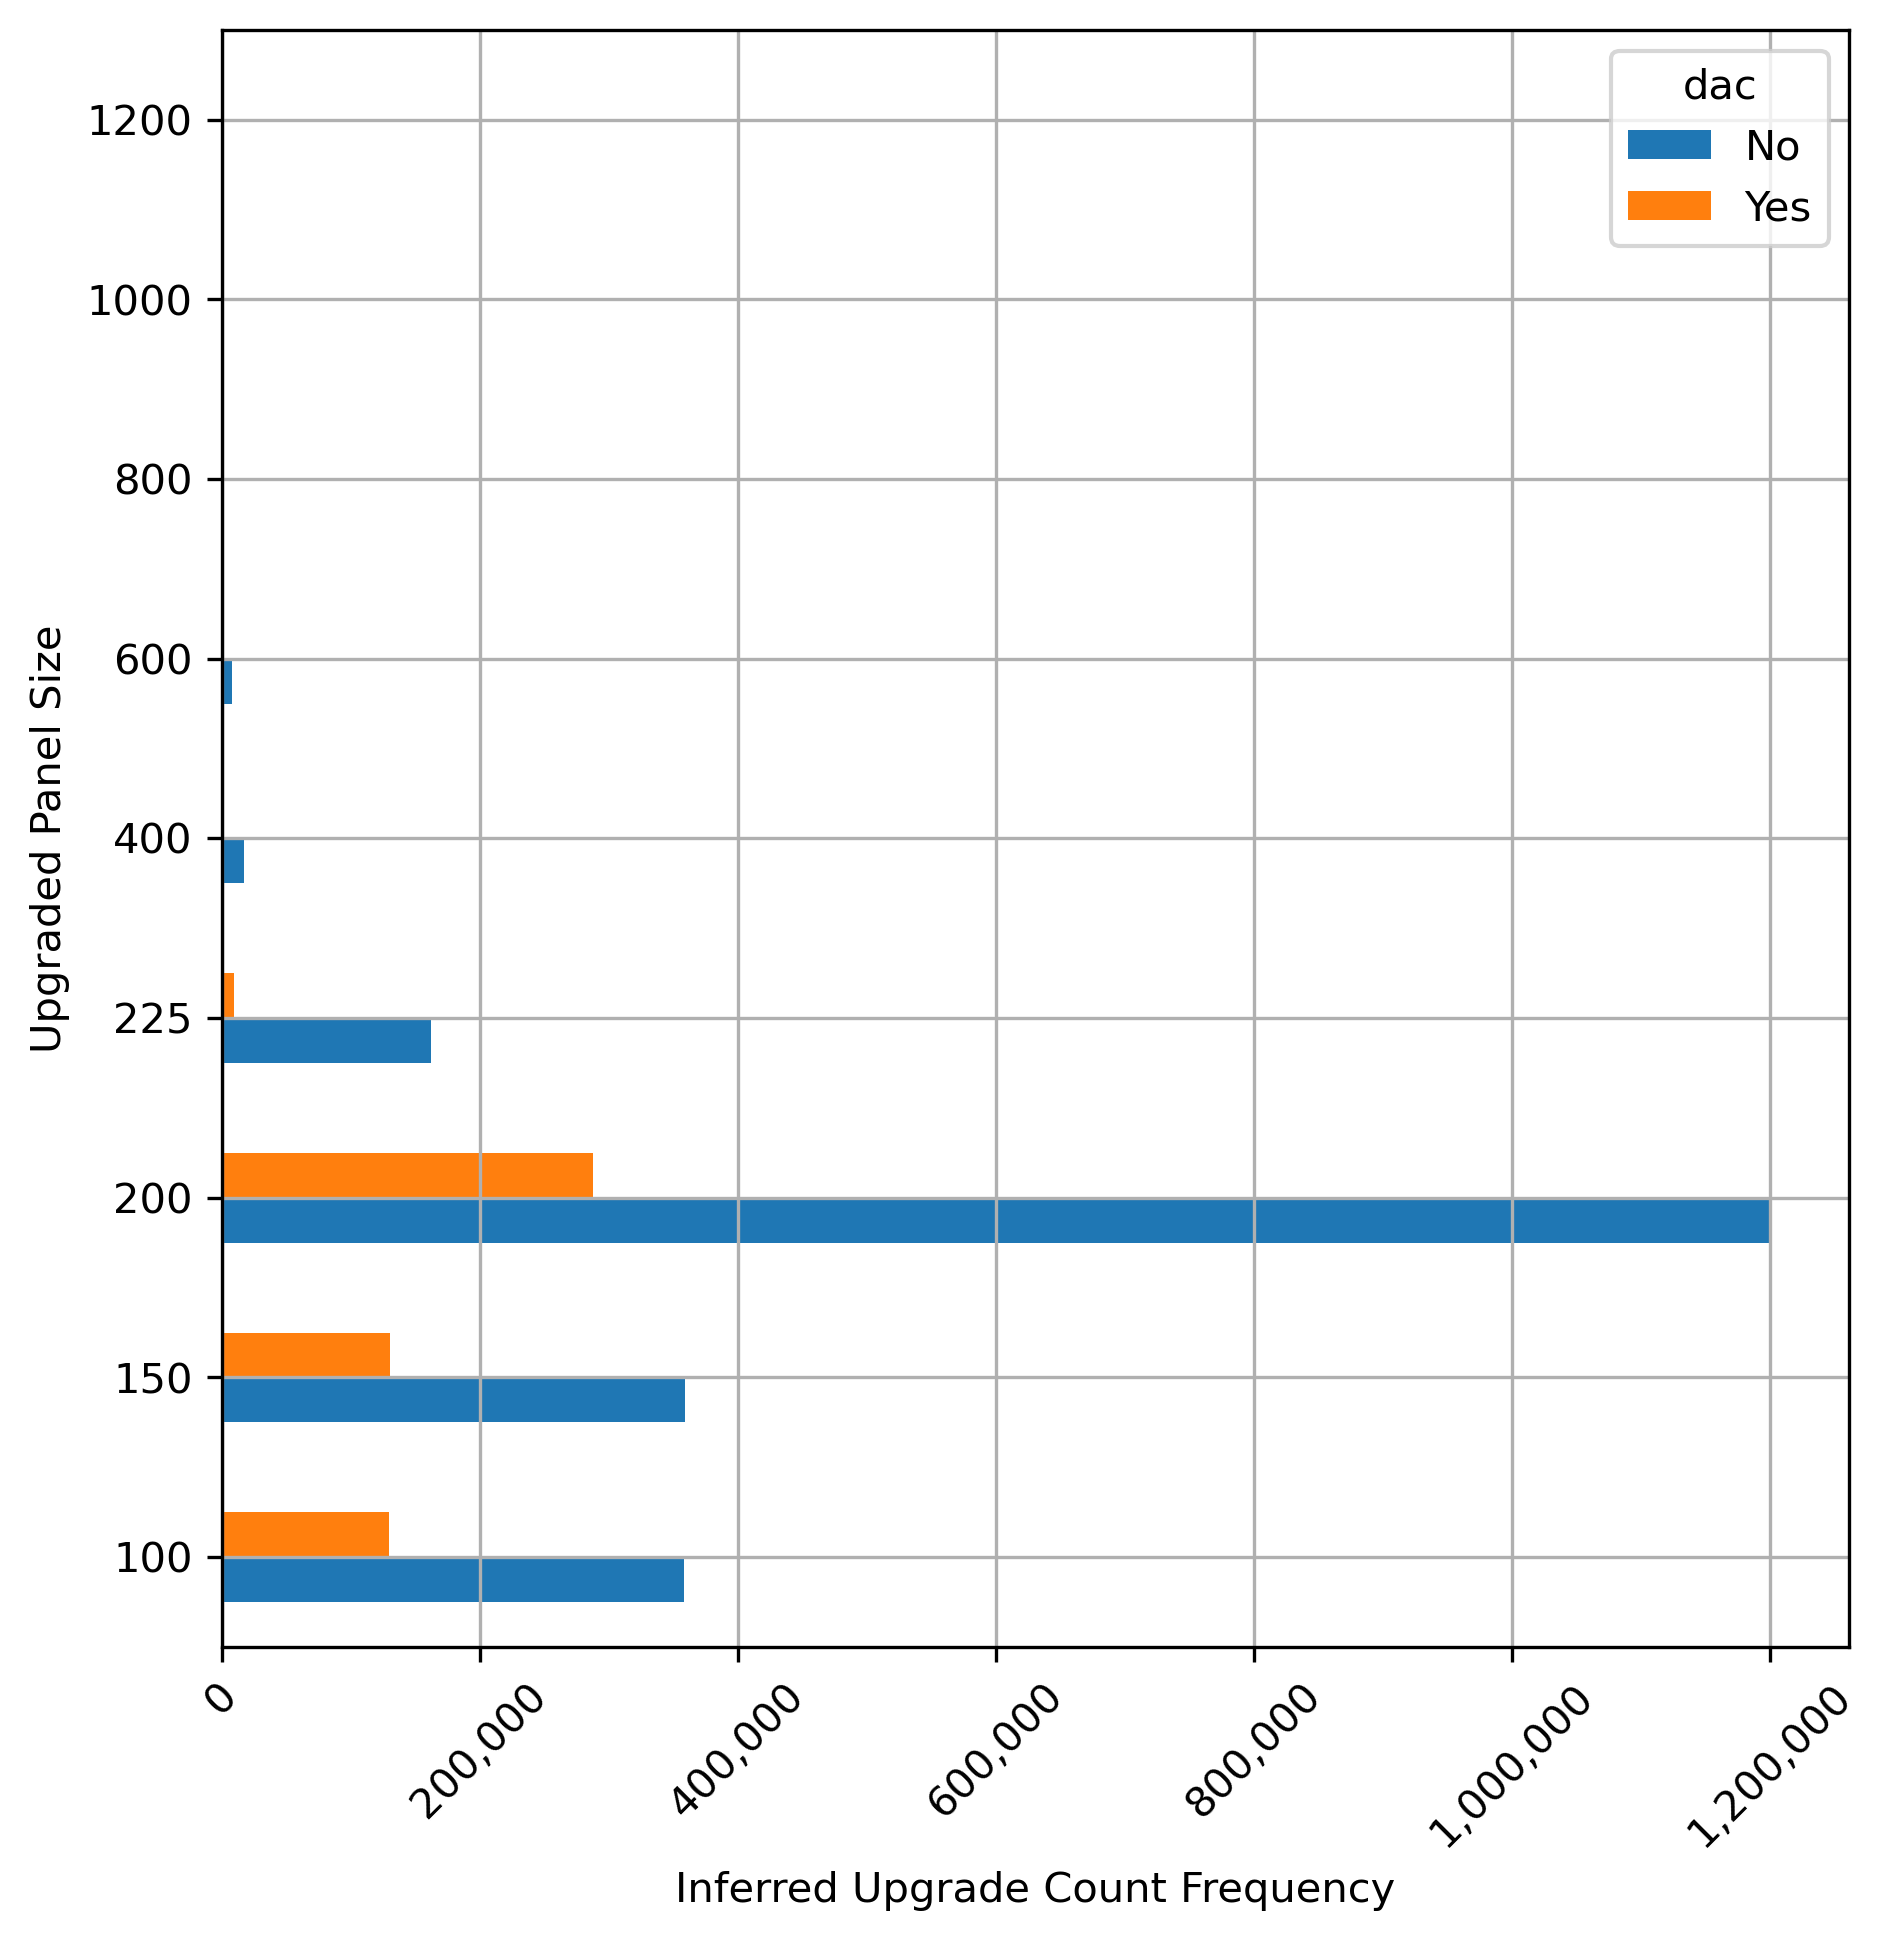
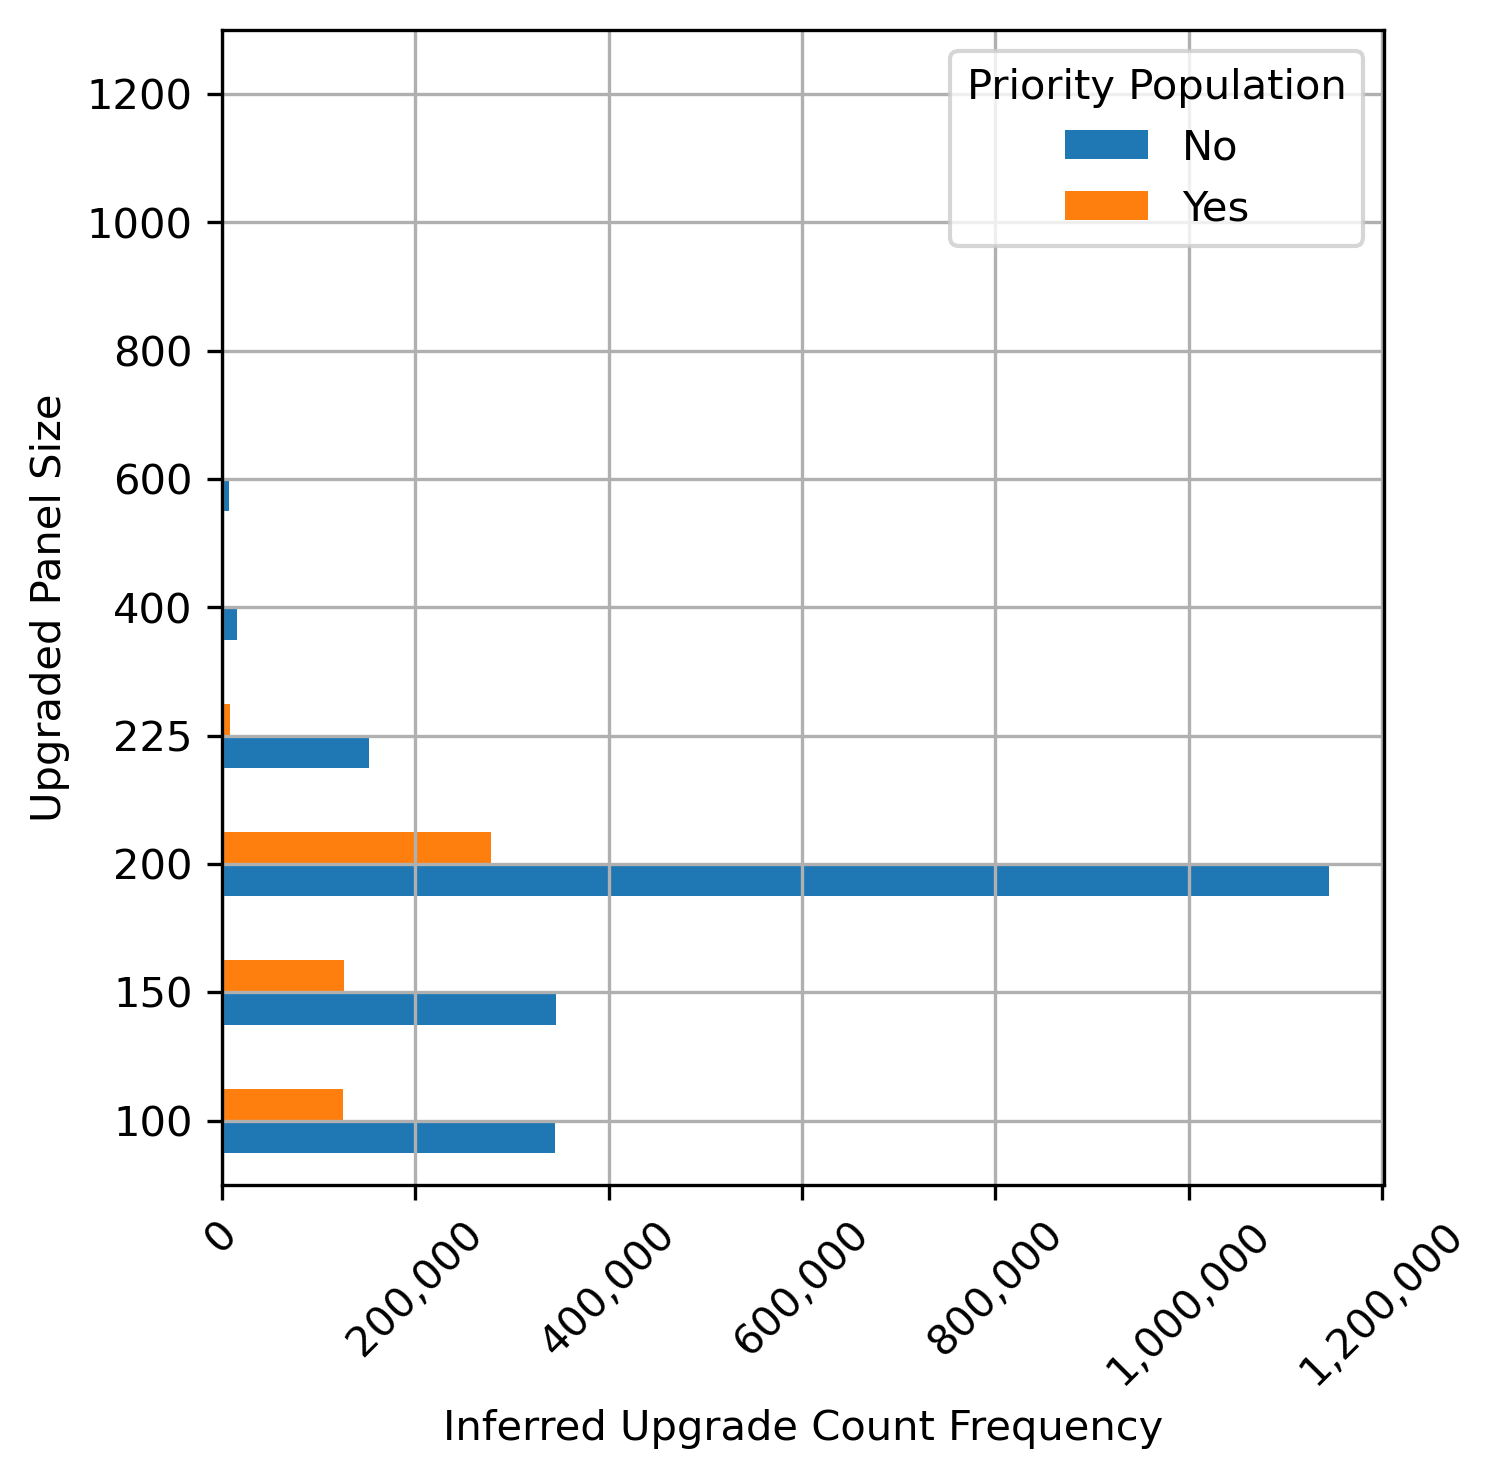
Refine model analysis figures for publication

Changed region(s): [[0.0, 0.0, 0.9807, 0.9953], [0.2145, 0.902, 0.2452, 0.9331], [0.0306, 0.2799, 0.0613, 0.311]]

diff --git a/analyses/model_data/model_data_analysis.py b/analyses/model_data/model_data_analysis.py
@@ -91,7 +91,7 @@ def AsBuiltPanelRatingsHist(mp, sector, figure_dir):
         ax = ax[0],
         bins = bins,
         legend = True,
-        label =
+        label = 'Priority Population',
         cbar = True,
         cbar_kws = {'label':'Number of Properties', 'orientation':'horizontal'},
         vmin=0, vmax=50000)
@@ -102,7 +102,7 @@ def AsBuiltPanelRatingsHist(mp, sector, figure_dir):
         ax = ax[1],
         bins = bins,
         legend = True,
-        label = 'Non-DAC',
+        label = 'Non-Priority Population',
         cbar = True,
         cbar_kws = {'label':'Number of Properties', 'orientation':'horizontal'},
         vmin=0, vmax=50000)
@@ -118,8 +118,8 @@ def AsBuiltPanelRatingsHist(mp, sector, figure_dir):
     ax[0].set_xlabel('Vintage \n[Year]')
     ax[1].set_xlabel('Vintage \n[Year]')
 
-    ax[0].set_title('DAC')
-    ax[1].set_title('Non-DAC')
+    ax[0].set_title('Priority Population')
+    ax[1].set_title('Non-Priority Population')
 
     ax[0].set_ylim(ylim)
     ax[1].set_ylim(ylim)
@@ -169,6 +169,7 @@ def AsBuiltPanelRatingsBar(mp, sector, figure_dir):
     ax.set_ylabel(ylabel)
     ax.set_xlabel(xlabel)
     plt.xticks(rotation = 45)
+    ax.legend(title = 'Priority Population')
 
     ax.xaxis.set_major_formatter(StrMethodFormatter('{x:,.0f}'))
 
@@ -196,6 +197,7 @@ def PermitCountsBar(buildings_ces, sector, figure_dir):
         y = 'sampled',
         x = 'dac',
         order = ['No','Yes'],
+        label = ['No','Yes'],
         ax = ax)
 
     if sector == 'single_family':
@@ -205,7 +207,7 @@ def PermitCountsBar(buildings_ces, sector, figure_dir):
 
     ax.grid(True)
     ax.set_ylabel(ylabel)
-    ax.set_xlabel('DAC Status')
+    ax.set_xlabel('Priority Population')
     ax.yaxis.set_major_formatter(StrMethodFormatter('{x:,.0f}'))
 
     fig.tight_layout()
@@ -250,7 +252,7 @@ def ExistingPanelRatingsHist(mp, sector, figure_dir):
         ax = ax[0],
         bins = bins,
         legend = True,
-        label = 'DAC',
+        label = 'Yes',
         cbar = True,
         cbar_kws = {'label': 'Number of Properties', 'orientation':'horizontal'},
         vmin=0, vmax=50000)
@@ -261,7 +263,7 @@ def ExistingPanelRatingsHist(mp, sector, figure_dir):
         ax = ax[1],
         bins = bins,
         legend = True,
-        label = 'Non-DAC',
+        label = 'No',
         cbar = True,
         cbar_kws = {'label':'Number of Properties', 'orientation':'horizontal'},
         vmin=0, vmax=50000)
@@ -277,8 +279,8 @@ def ExistingPanelRatingsHist(mp, sector, figure_dir):
     ax[0].set_xlabel('Vintage \n[Year]')
     ax[1].set_xlabel('Vintage \n[Year]')
 
-    ax[0].set_title('DAC')
-    ax[1].set_title('Non-DAC')
+    ax[0].set_title('Priority Population')
+    ax[1].set_title('Non-Priority Population')
 
     ax[0].set_ylim(ylim)
     ax[1].set_ylim(ylim)
@@ -315,7 +317,7 @@ def JointDistributionPlot(mp, sector, figure_dir):
             marker = '.',
             linewidth = 0
             )
-        plt.legend(loc='upper left')
+        plt.legend(title = 'Priority Population', loc='upper left')
         plt.xlim([1830, 2025])
         plt.ylim([2.0, 5.0])
         plt.yticks([2,3,4,5])
@@ -336,7 +338,7 @@ def JointDistributionPlot(mp, sector, figure_dir):
             marker = '.',
             linewidth = 0
             )
-        plt.legend(loc='upper left')
+        plt.legend(title = 'Priority Population', loc='upper left')
         plt.xlim([1860, 2025])
         plt.ylim([2.0, 6.0])
         plt.yticks([2,3,4,5,6])
@@ -414,6 +416,7 @@ def ExistingPanelRatingsBar(mp, sector, figure_dir):
     ax.set_ylabel(ylabel)
     ax.set_xlabel(xlabel)
     plt.xticks(rotation = 45)
+    ax.legend(title = 'Priority Population')
 
     ax.xaxis.set_major_formatter(StrMethodFormatter('{x:,.0f}'))
 
@@ -644,7 +647,7 @@ def PermittedUpgradePanelSizeDistribution(mp, sector, figure_dir):
     counts = counts.unstack(level= 0)
     counts.index = counts.index.astype(int)
 
-    fig, ax = plt.subplots(1,1,figsize=(7,7))
+    fig, ax = plt.subplots(1,1,figsize=(5,5))
 
     counts.plot.barh(ax = ax, color = ['tab:blue', 'tab:orange'])
 
@@ -652,6 +655,7 @@ def PermittedUpgradePanelSizeDistribution(mp, sector, figure_dir):
     ax.set_xlabel('Upgrade Permit Count Frequency')
     ax.grid(True)
     ax.xaxis.set_major_formatter(StrMethodFormatter('{x:,.0f}'))
+    ax.legend(title = 'Priority Population')
 
     plt.xticks(rotation = 45)
 
@@ -676,7 +680,7 @@ def InferredUpgradePanelSizeDistribution(mp, sector, figure_dir):
     counts = counts.unstack(level= 0)
     counts.index = counts.index.astype(int)
 
-    fig, ax = plt.subplots(1,1,figsize=(7,7))
+    fig, ax = plt.subplots(1,1,figsize=(5,5))
 
     counts.plot.barh(ax = ax, color = ['tab:blue', 'tab:orange'])
 
@@ -684,6 +688,7 @@ def InferredUpgradePanelSizeDistribution(mp, sector, figure_dir):
     ax.set_xlabel('Inferred Upgrade Count Frequency')
     ax.grid(True)
     ax.xaxis.set_major_formatter(StrMethodFormatter('{x:,.0f}'))
+    ax.legend(title = 'Priority Population')
 
     plt.xticks(rotation = 45)
 
@@ -738,6 +743,8 @@ def PlotLikelyUpgradeRequirementsByAirDistrict(mp, sector, figure_dir):
     # Generate plot elements
 
     fig, ax = plt.subplots(1,2, figsize = (15,15))
+    fs = 6
+
 
     air_districts.boundary.plot(
         ax = ax[0],
@@ -778,7 +785,8 @@ def PlotLikelyUpgradeRequirementsByAirDistrict(mp, sector, figure_dir):
         text=x['counts'],
         xy=x['coords'],
         ha='center',
-        color = 'black'), axis=1)
+        color = 'black',
+        fontsize = fs), axis=1)
 
     ax[0].axis('Off')
 
@@ -823,7 +831,8 @@ def PlotLikelyUpgradeRequirementsByAirDistrict(mp, sector, figure_dir):
         text=x['counts'],
         xy=x['coords'],
         ha='center',
-        color = 'black'), axis=1)
+        color = 'black',
+        fontsize = fs), axis=1)
 
     ax[1].axis('Off')
 
@@ -878,6 +887,7 @@ def PlotLikelyUpgradeRequirementsByCounty(mp, sector, figure_dir):
     # Generate plot elements
 
     fig, ax = plt.subplots(1,2, figsize = (15,15))
+    fs = 6
 
     counties.boundary.plot(
         ax = ax[0],
@@ -918,7 +928,8 @@ def PlotLikelyUpgradeRequirementsByCounty(mp, sector, figure_dir):
         text=x['counts'],
         xy=x['coords'],
         ha='center',
-        color = 'black'), axis=1)
+        color = 'black',
+        fontsize = fs), axis=1)
 
     ax[0].axis('Off')
 
@@ -963,7 +974,8 @@ def PlotLikelyUpgradeRequirementsByCounty(mp, sector, figure_dir):
         text=x['counts'],
         xy=x['coords'],
         ha='center',
-        color = 'black'), axis=1)
+        color = 'black',
+        fontsize = fs), axis=1)
 
     ax[1].axis('Off')
 
@@ -971,6 +983,6 @@ def PlotLikelyUpgradeRequirementsByCounty(mp, sector, figure_dir):
 
     return county_upgrade_requirements
 
-#%%
+#%% Generate County Level Upgrade Requirements Map
 
 county_upgrade_requirements = PlotLikelyUpgradeRequirementsByCounty(mp, sector, figure_dir)

diff --git a/model/sf_feature_inference.py b/model/sf_feature_inference.py
@@ -78,7 +78,7 @@ mp['ces_bin'] = pd.cut(
     labels = classes)
 
 # Generate figure axes
-fig, ax = plt.subplots(1,1, figsize=(7,7))
+fig, ax = plt.subplots(1,1, figsize=(5,5))
 
 # Allocate ECDF sample data array
 n = 100
